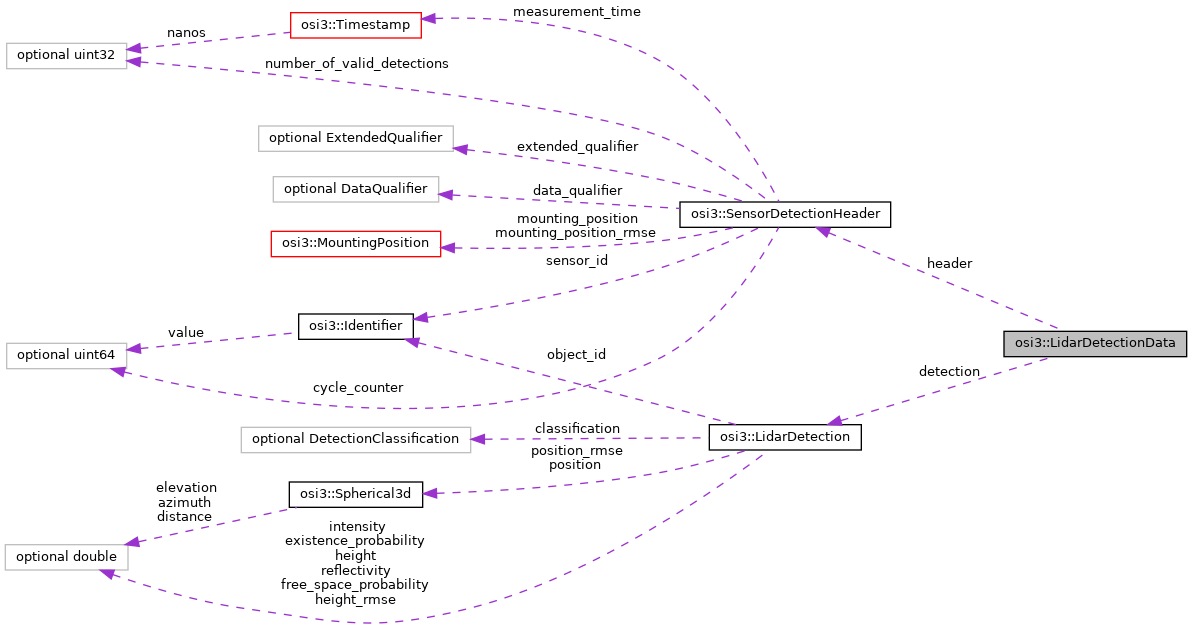
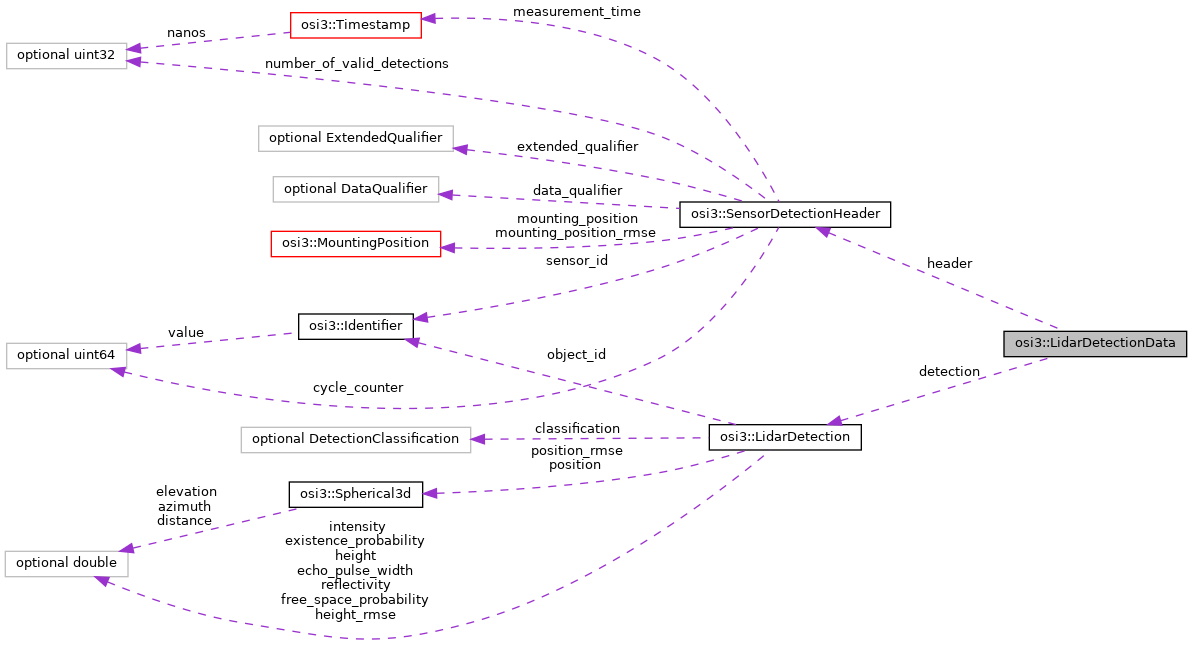
deploy: 3590ea0f7cb383ba6453584e4cb2058d85724f1e

diff --git a/structosi3_1_1LidarDetection-members.html b/structosi3_1_1LidarDetection-members.html
@@ -94,15 +94,16 @@ $(document).ready(function(){initNavTree('structosi3_1_1LidarDetection.html','')
 <p>This is the complete list of members for <a class="el" href="structosi3_1_1LidarDetection.html">osi3::LidarDetection</a>, including all inherited members.</p>
 <table class="directory">
   <tr class="even"><td class="entry"><a class="el" href="structosi3_1_1LidarDetection.html#a44833637161c94126c8ba84bf47b377a">classification</a></td><td class="entry"><a class="el" href="structosi3_1_1LidarDetection.html">osi3::LidarDetection</a></td><td class="entry"></td></tr>
-  <tr><td class="entry"><a class="el" href="structosi3_1_1LidarDetection.html#aa43288d7437026989c17abbc466d29d2">existence_probability</a></td><td class="entry"><a class="el" href="structosi3_1_1LidarDetection.html">osi3::LidarDetection</a></td><td class="entry"></td></tr>
-  <tr class="even"><td class="entry"><a class="el" href="structosi3_1_1LidarDetection.html#a211052d77b3fd978c00659d3d1b98a06">free_space_probability</a></td><td class="entry"><a class="el" href="structosi3_1_1LidarDetection.html">osi3::LidarDetection</a></td><td class="entry"></td></tr>
-  <tr><td class="entry"><a class="el" href="structosi3_1_1LidarDetection.html#a3307991b913cb5b5451257e49f5234d9">height</a></td><td class="entry"><a class="el" href="structosi3_1_1LidarDetection.html">osi3::LidarDetection</a></td><td class="entry"></td></tr>
-  <tr class="even"><td class="entry"><a class="el" href="structosi3_1_1LidarDetection.html#a6799498adedc0b59775d547106557029">height_rmse</a></td><td class="entry"><a class="el" href="structosi3_1_1LidarDetection.html">osi3::LidarDetection</a></td><td class="entry"></td></tr>
-  <tr><td class="entry"><a class="el" href="structosi3_1_1LidarDetection.html#a1c2ea1eb70a1d1c31d5bc1481572f4e7">intensity</a></td><td class="entry"><a class="el" href="structosi3_1_1LidarDetection.html">osi3::LidarDetection</a></td><td class="entry"></td></tr>
-  <tr class="even"><td class="entry"><a class="el" href="structosi3_1_1LidarDetection.html#a744d7f8e6e5be6c25dce2f4bb3d2755c">object_id</a></td><td class="entry"><a class="el" href="structosi3_1_1LidarDetection.html">osi3::LidarDetection</a></td><td class="entry"></td></tr>
-  <tr><td class="entry"><a class="el" href="structosi3_1_1LidarDetection.html#ae732995aaab1ef629a09896f1ab04317">position</a></td><td class="entry"><a class="el" href="structosi3_1_1LidarDetection.html">osi3::LidarDetection</a></td><td class="entry"></td></tr>
-  <tr class="even"><td class="entry"><a class="el" href="structosi3_1_1LidarDetection.html#aa648b223b72897239e0120be863a4439">position_rmse</a></td><td class="entry"><a class="el" href="structosi3_1_1LidarDetection.html">osi3::LidarDetection</a></td><td class="entry"></td></tr>
-  <tr><td class="entry"><a class="el" href="structosi3_1_1LidarDetection.html#a20bdc24a0eaadbd9c2fa48f416f30f42">reflectivity</a></td><td class="entry"><a class="el" href="structosi3_1_1LidarDetection.html">osi3::LidarDetection</a></td><td class="entry"></td></tr>
+  <tr><td class="entry"><a class="el" href="structosi3_1_1LidarDetection.html#a5d179981ada5ea4281adda2aa1e6f612">echo_pulse_width</a></td><td class="entry"><a class="el" href="structosi3_1_1LidarDetection.html">osi3::LidarDetection</a></td><td class="entry"></td></tr>
+  <tr class="even"><td class="entry"><a class="el" href="structosi3_1_1LidarDetection.html#aa43288d7437026989c17abbc466d29d2">existence_probability</a></td><td class="entry"><a class="el" href="structosi3_1_1LidarDetection.html">osi3::LidarDetection</a></td><td class="entry"></td></tr>
+  <tr><td class="entry"><a class="el" href="structosi3_1_1LidarDetection.html#a211052d77b3fd978c00659d3d1b98a06">free_space_probability</a></td><td class="entry"><a class="el" href="structosi3_1_1LidarDetection.html">osi3::LidarDetection</a></td><td class="entry"></td></tr>
+  <tr class="even"><td class="entry"><a class="el" href="structosi3_1_1LidarDetection.html#a3307991b913cb5b5451257e49f5234d9">height</a></td><td class="entry"><a class="el" href="structosi3_1_1LidarDetection.html">osi3::LidarDetection</a></td><td class="entry"></td></tr>
+  <tr><td class="entry"><a class="el" href="structosi3_1_1LidarDetection.html#a6799498adedc0b59775d547106557029">height_rmse</a></td><td class="entry"><a class="el" href="structosi3_1_1LidarDetection.html">osi3::LidarDetection</a></td><td class="entry"></td></tr>
+  <tr class="even"><td class="entry"><a class="el" href="structosi3_1_1LidarDetection.html#a1c2ea1eb70a1d1c31d5bc1481572f4e7">intensity</a></td><td class="entry"><a class="el" href="structosi3_1_1LidarDetection.html">osi3::LidarDetection</a></td><td class="entry"></td></tr>
+  <tr><td class="entry"><a class="el" href="structosi3_1_1LidarDetection.html#a744d7f8e6e5be6c25dce2f4bb3d2755c">object_id</a></td><td class="entry"><a class="el" href="structosi3_1_1LidarDetection.html">osi3::LidarDetection</a></td><td class="entry"></td></tr>
+  <tr class="even"><td class="entry"><a class="el" href="structosi3_1_1LidarDetection.html#ae732995aaab1ef629a09896f1ab04317">position</a></td><td class="entry"><a class="el" href="structosi3_1_1LidarDetection.html">osi3::LidarDetection</a></td><td class="entry"></td></tr>
+  <tr><td class="entry"><a class="el" href="structosi3_1_1LidarDetection.html#aa648b223b72897239e0120be863a4439">position_rmse</a></td><td class="entry"><a class="el" href="structosi3_1_1LidarDetection.html">osi3::LidarDetection</a></td><td class="entry"></td></tr>
+  <tr class="even"><td class="entry"><a class="el" href="structosi3_1_1LidarDetection.html#a20bdc24a0eaadbd9c2fa48f416f30f42">reflectivity</a></td><td class="entry"><a class="el" href="structosi3_1_1LidarDetection.html">osi3::LidarDetection</a></td><td class="entry"></td></tr>
 </table></div><!-- contents -->
 </div><!-- doc-content -->
 <!-- start footer part -->

diff --git a/structosi3_1_1LidarDetection.html b/structosi3_1_1LidarDetection.html
@@ -101,8 +101,8 @@ Collaboration diagram for osi3::LidarDetection:</div>
 <div class="dyncontent">
 <div class="center"><img src="structosi3_1_1LidarDetection__coll__graph.png" border="0" usemap="#osi3_1_1LidarDetection_coll__map" alt="Collaboration graph"/></div>
 <map name="osi3_1_1LidarDetection_coll__map" id="osi3_1_1LidarDetection_coll__map">
-<area shape="rect" id="node2" href="structosi3_1_1Identifier.html" title="A common identifier (ID), represented as an integer. " alt="" coords="8,155,123,181"/>
-<area shape="rect" id="node5" href="structosi3_1_1Spherical3d.html" title="A spherical representation for a point or vector in 3D space. " alt="" coords="597,155,731,181"/>
+<area shape="rect" id="node2" href="structosi3_1_1Identifier.html" title="A common identifier (ID), represented as an integer. " alt="" coords="8,162,123,189"/>
+<area shape="rect" id="node5" href="structosi3_1_1Spherical3d.html" title="A spherical representation for a point or vector in 3D space. " alt="" coords="597,162,731,189"/>
 </map>
 <center><span class="legend">[<a target="top" href="graph_legend.html">legend</a>]</span></center></div>
 <table class="memberdecls">
@@ -128,6 +128,8 @@ Public Attributes</h2></td></tr>
 <tr class="separator:a44833637161c94126c8ba84bf47b377a"><td class="memSeparator" colspan="2">&#160;</td></tr>
 <tr class="memitem:a20bdc24a0eaadbd9c2fa48f416f30f42"><td class="memItemLeft" align="right" valign="top">optional double&#160;</td><td class="memItemRight" valign="bottom"><a class="el" href="structosi3_1_1LidarDetection.html#a20bdc24a0eaadbd9c2fa48f416f30f42">reflectivity</a> = 10</td></tr>
 <tr class="separator:a20bdc24a0eaadbd9c2fa48f416f30f42"><td class="memSeparator" colspan="2">&#160;</td></tr>
+<tr class="memitem:a5d179981ada5ea4281adda2aa1e6f612"><td class="memItemLeft" align="right" valign="top">optional double&#160;</td><td class="memItemRight" valign="bottom"><a class="el" href="structosi3_1_1LidarDetection.html#a5d179981ada5ea4281adda2aa1e6f612">echo_pulse_width</a> = 11</td></tr>
+<tr class="separator:a5d179981ada5ea4281adda2aa1e6f612"><td class="memSeparator" colspan="2">&#160;</td></tr>
 </table>
 <a name="details" id="details"></a><h2 class="groupheader">Detailed Description</h2>
 <div class="textblock"><p>A point or vertical line in a lidar point cloud. </p>
@@ -144,6 +146,28 @@ Public Attributes</h2></td></tr>
       </table>
 </div><div class="memdoc">
 <p>Basic classification of the detection. </p>
+
+</div>
+</div>
+<a id="a5d179981ada5ea4281adda2aa1e6f612"></a>
+<h2 class="memtitle"><span class="permalink"><a href="#a5d179981ada5ea4281adda2aa1e6f612">&#9670;&nbsp;</a></span>echo_pulse_width</h2>
+
+<div class="memitem">
+<div class="memproto">
+      <table class="memname">
+        <tr>
+          <td class="memname">optional double osi3::LidarDetection::echo_pulse_width = 11</td>
+        </tr>
+      </table>
+</div><div class="memdoc">
+<p>Echo pulse width of the detection's echo. Several sensors output an echo pulse width instead of an intensity for each individual detection. The echo pulse is measured in m and measures the extent of the object parts or atmospheric particles that produce the echo. </p><dl class="section note"><dt>Note</dt><dd>For more details see [1] Fig. 7 and 8. </dd>
+<dd>
+Fig. 7 shows an example where the two echos are reflected from the edges A-B and C-D. </dd>
+<dd>
+Fig. 8 shows how the echo pulse width is measured as the range between the rising edge and the falling edge that crosses the intensity threshold.</dd></dl>
+<p>Unit: m</p>
+<p>is_greater_than_or_equal_to: 0 </p>
+<dl class="section user"><dt>Reference:</dt><dd>[1] Rosenberger, P., Holder, M.F., Cianciaruso, N. et al. (2020). <em>Sequential lidar sensor system simulation: a modular approach for simulation-based safety validation of automated driving</em> Automot. Engine Technol. 5, Fig 7, Fig 8. Retrieved May 10, 2021, from <a href="https://doi.org/10.1007/s41104-020-00066-x">https://doi.org/10.1007/s41104-020-00066-x</a> </dd></dl>
 
 </div>
 </div>

diff --git a/navtreeindex2.js b/navtreeindex2.js
@@ -68,16 +68,17 @@ var NAVTREEINDEX2 =
 "structosi3_1_1Lane_1_1Classification_1_1RoadCondition.html#ad2e6b6212fe5bd056e69ec6ed13029eb":[2,0,0,37,0,1,2],
 "structosi3_1_1Lane_1_1Classification_1_1RoadCondition.html#af18fb9af81d3bd6a9860711dc8eac210":[2,0,0,37,0,1,0],
 "structosi3_1_1LidarDetection.html":[2,0,0,39],
-"structosi3_1_1LidarDetection.html#a1c2ea1eb70a1d1c31d5bc1481572f4e7":[2,0,0,39,5],
-"structosi3_1_1LidarDetection.html#a20bdc24a0eaadbd9c2fa48f416f30f42":[2,0,0,39,9],
-"structosi3_1_1LidarDetection.html#a211052d77b3fd978c00659d3d1b98a06":[2,0,0,39,2],
-"structosi3_1_1LidarDetection.html#a3307991b913cb5b5451257e49f5234d9":[2,0,0,39,3],
+"structosi3_1_1LidarDetection.html#a1c2ea1eb70a1d1c31d5bc1481572f4e7":[2,0,0,39,6],
+"structosi3_1_1LidarDetection.html#a20bdc24a0eaadbd9c2fa48f416f30f42":[2,0,0,39,10],
+"structosi3_1_1LidarDetection.html#a211052d77b3fd978c00659d3d1b98a06":[2,0,0,39,3],
+"structosi3_1_1LidarDetection.html#a3307991b913cb5b5451257e49f5234d9":[2,0,0,39,4],
 "structosi3_1_1LidarDetection.html#a44833637161c94126c8ba84bf47b377a":[2,0,0,39,0],
-"structosi3_1_1LidarDetection.html#a6799498adedc0b59775d547106557029":[2,0,0,39,4],
-"structosi3_1_1LidarDetection.html#a744d7f8e6e5be6c25dce2f4bb3d2755c":[2,0,0,39,6],
-"structosi3_1_1LidarDetection.html#aa43288d7437026989c17abbc466d29d2":[2,0,0,39,1],
-"structosi3_1_1LidarDetection.html#aa648b223b72897239e0120be863a4439":[2,0,0,39,8],
-"structosi3_1_1LidarDetection.html#ae732995aaab1ef629a09896f1ab04317":[2,0,0,39,7],
+"structosi3_1_1LidarDetection.html#a5d179981ada5ea4281adda2aa1e6f612":[2,0,0,39,1],
+"structosi3_1_1LidarDetection.html#a6799498adedc0b59775d547106557029":[2,0,0,39,5],
+"structosi3_1_1LidarDetection.html#a744d7f8e6e5be6c25dce2f4bb3d2755c":[2,0,0,39,7],
+"structosi3_1_1LidarDetection.html#aa43288d7437026989c17abbc466d29d2":[2,0,0,39,2],
+"structosi3_1_1LidarDetection.html#aa648b223b72897239e0120be863a4439":[2,0,0,39,9],
+"structosi3_1_1LidarDetection.html#ae732995aaab1ef629a09896f1ab04317":[2,0,0,39,8],
 "structosi3_1_1LidarDetectionData.html":[2,0,0,40],
 "structosi3_1_1LidarDetectionData.html#a759a1669b3f4ce43c099055e08029fbf":[2,0,0,40,1],
 "structosi3_1_1LidarDetectionData.html#acd72cf3ea8e50ed566e075834b678a5a":[2,0,0,40,0],
@@ -248,6 +249,5 @@ var NAVTREEINDEX2 =
 "structosi3_1_1Occupant_1_1Classification.html#a98092d4ddd2b683e109bd7692b5e4ecaacbae42e9034a8f4181193cc9decf825d":[2,0,0,49,0,1,5],
 "structosi3_1_1Occupant_1_1Classification.html#a98092d4ddd2b683e109bd7692b5e4ecaafd105c3e974e9f2dc12026289049fc99":[2,0,0,49,0,1,3],
 "structosi3_1_1Occupant_1_1Classification.html#abac264f20a3e5379b4b2969881af56a6":[2,0,0,49,0,0],
-"structosi3_1_1Occupant_1_1Classification.html#abac264f20a3e5379b4b2969881af56a6a00f308af4fe18c8054d81c872c17031a":[2,0,0,49,0,0,2],
-"structosi3_1_1Occupant_1_1Classification.html#abac264f20a3e5379b4b2969881af56a6a1448fb1f791c8bb2d8da78919de415e4":[2,0,0,49,0,0,10]
+"structosi3_1_1Occupant_1_1Classification.html#abac264f20a3e5379b4b2969881af56a6a00f308af4fe18c8054d81c872c17031a":[2,0,0,49,0,0,2]
 };

diff --git a/navtreeindex5.js b/navtreeindex5.js
@@ -1,5 +1,6 @@
 var NAVTREEINDEX5 =
 {
+"structosi3_1_1TrafficSign_1_1MainSign_1_1Classification.html#af4bea9cfaada82922c78d06dff73b88da25f3e3d9e8b23c14afeb32954349c806":[2,0,0,71,0,0,1,177],
 "structosi3_1_1TrafficSign_1_1MainSign_1_1Classification.html#af4bea9cfaada82922c78d06dff73b88da276de3a609b215107cf55fe012dd53ef":[2,0,0,71,0,0,1,0],
 "structosi3_1_1TrafficSign_1_1MainSign_1_1Classification.html#af4bea9cfaada82922c78d06dff73b88da27a013cb67b750f80a5941c7ef30cec0":[2,0,0,71,0,0,1,167],
 "structosi3_1_1TrafficSign_1_1MainSign_1_1Classification.html#af4bea9cfaada82922c78d06dff73b88da30a941e8237d90da1094255ab27d9f1d":[2,0,0,71,0,0,1,122],
@@ -248,6 +249,5 @@ var NAVTREEINDEX5 =
 "structosi3_1_1TrafficSign_1_1SupplementarySign_1_1Classification.html#a302f53418063f833bdf486599b2d1686a8f8de523840ce21d740959915016c51a":[2,0,0,71,1,0,1,30],
 "structosi3_1_1TrafficSign_1_1SupplementarySign_1_1Classification.html#a302f53418063f833bdf486599b2d1686a93b5ec443c7d3e6caed39c5baf0dbe92":[2,0,0,71,1,0,1,29],
 "structosi3_1_1TrafficSign_1_1SupplementarySign_1_1Classification.html#a302f53418063f833bdf486599b2d1686a96f5db67aa0f7dbd0a63b8bea4cad69c":[2,0,0,71,1,0,1,1],
-"structosi3_1_1TrafficSign_1_1SupplementarySign_1_1Classification.html#a302f53418063f833bdf486599b2d1686a988ceb2ec99ffb493547f070290ffb7a":[2,0,0,71,1,0,1,40],
-"structosi3_1_1TrafficSign_1_1SupplementarySign_1_1Classification.html#a302f53418063f833bdf486599b2d1686a9da0abccc40373e27a7304030aaaf7c6":[2,0,0,71,1,0,1,16]
+"structosi3_1_1TrafficSign_1_1SupplementarySign_1_1Classification.html#a302f53418063f833bdf486599b2d1686a988ceb2ec99ffb493547f070290ffb7a":[2,0,0,71,1,0,1,40]
 };

diff --git a/navtreeindex4.js b/navtreeindex4.js
@@ -1,5 +1,6 @@
 var NAVTREEINDEX4 =
 {
+"structosi3_1_1StationaryObject_1_1Classification.html#ad497488a7119617633b54181ea08457da6158b24f924dbecf2a1bfd46b2b7df04":[2,0,0,66,0,4,1],
 "structosi3_1_1StationaryObject_1_1Classification.html#ad497488a7119617633b54181ea08457da61844e11acb3ff57ce7635709d59fb1b":[2,0,0,66,0,4,16],
 "structosi3_1_1StationaryObject_1_1Classification.html#ad497488a7119617633b54181ea08457da6bdaba100e01c55375fce090386bd1a6":[2,0,0,66,0,4,10],
 "structosi3_1_1StationaryObject_1_1Classification.html#ad497488a7119617633b54181ea08457da7e3b5e517279cca2683c659eb7d2543a":[2,0,0,66,0,4,14],
@@ -248,6 +249,5 @@ var NAVTREEINDEX4 =
 "structosi3_1_1TrafficSign_1_1MainSign_1_1Classification.html#af4bea9cfaada82922c78d06dff73b88da208ea1aa157a57b701a0ccdae601cec8":[2,0,0,71,0,0,1,81],
 "structosi3_1_1TrafficSign_1_1MainSign_1_1Classification.html#af4bea9cfaada82922c78d06dff73b88da2228c6f2773d394fa3a60f4d491ba8a8":[2,0,0,71,0,0,1,43],
 "structosi3_1_1TrafficSign_1_1MainSign_1_1Classification.html#af4bea9cfaada82922c78d06dff73b88da22c3fc4ac4dc03eaf4f214aa3bd157df":[2,0,0,71,0,0,1,74],
-"structosi3_1_1TrafficSign_1_1MainSign_1_1Classification.html#af4bea9cfaada82922c78d06dff73b88da23734ce5e3efa9fee2cfa830245ed021":[2,0,0,71,0,0,1,68],
-"structosi3_1_1TrafficSign_1_1MainSign_1_1Classification.html#af4bea9cfaada82922c78d06dff73b88da25f3e3d9e8b23c14afeb32954349c806":[2,0,0,71,0,0,1,177]
+"structosi3_1_1TrafficSign_1_1MainSign_1_1Classification.html#af4bea9cfaada82922c78d06dff73b88da23734ce5e3efa9fee2cfa830245ed021":[2,0,0,71,0,0,1,68]
 };

diff --git a/navtreeindex3.js b/navtreeindex3.js
@@ -1,5 +1,6 @@
 var NAVTREEINDEX3 =
 {
+"structosi3_1_1Occupant_1_1Classification.html#abac264f20a3e5379b4b2969881af56a6a1448fb1f791c8bb2d8da78919de415e4":[2,0,0,49,0,0,10],
 "structosi3_1_1Occupant_1_1Classification.html#abac264f20a3e5379b4b2969881af56a6a180b96846f3f08de04f0005d5e35899f":[2,0,0,49,0,0,5],
 "structosi3_1_1Occupant_1_1Classification.html#abac264f20a3e5379b4b2969881af56a6a59820d9ac7d3487ff4ed61fb64be3c57":[2,0,0,49,0,0,8],
 "structosi3_1_1Occupant_1_1Classification.html#abac264f20a3e5379b4b2969881af56a6a7bfaa10ee0ab6678d489674cec1559c8":[2,0,0,49,0,0,1],
@@ -248,6 +249,5 @@ var NAVTREEINDEX3 =
 "structosi3_1_1StationaryObject_1_1Classification.html#ad497488a7119617633b54181ea08457da224542cd5d9d94ba440ada2f249159dd":[2,0,0,66,0,4,0],
 "structosi3_1_1StationaryObject_1_1Classification.html#ad497488a7119617633b54181ea08457da2ad7dab15df9369f54e873a079d26f02":[2,0,0,66,0,4,18],
 "structosi3_1_1StationaryObject_1_1Classification.html#ad497488a7119617633b54181ea08457da3061d9cf215369f5d91dad750d08e05d":[2,0,0,66,0,4,2],
-"structosi3_1_1StationaryObject_1_1Classification.html#ad497488a7119617633b54181ea08457da50031e171de36e8236e7b500069e5994":[2,0,0,66,0,4,3],
-"structosi3_1_1StationaryObject_1_1Classification.html#ad497488a7119617633b54181ea08457da6158b24f924dbecf2a1bfd46b2b7df04":[2,0,0,66,0,4,1]
+"structosi3_1_1StationaryObject_1_1Classification.html#ad497488a7119617633b54181ea08457da50031e171de36e8236e7b500069e5994":[2,0,0,66,0,4,3]
 };

diff --git a/navtreedata.js b/navtreedata.js
@@ -22,10 +22,10 @@ var NAVTREEINDEX =
 ".html",
 "structosi3_1_1DetectedItemHeader.html#a3da007473f8976d9ae650a9b8a835078af1c7aa4e3a4fc4a5865e632eb7e33ed7",
 "structosi3_1_1LaneBoundary_1_1Classification.html#a7b617964f20b0d2a7e60474cacf6e214abc97b8bac29e43fa3f7c6248f1b9f33b",
-"structosi3_1_1Occupant_1_1Classification.html#abac264f20a3e5379b4b2969881af56a6a180b96846f3f08de04f0005d5e35899f",
-"structosi3_1_1StationaryObject_1_1Classification.html#ad497488a7119617633b54181ea08457da61844e11acb3ff57ce7635709d59fb1b",
-"structosi3_1_1TrafficSign_1_1MainSign_1_1Classification.html#af4bea9cfaada82922c78d06dff73b88da276de3a609b215107cf55fe012dd53ef",
-"structosi3_1_1TrafficSign_1_1SupplementarySign_1_1Classification.html#a302f53418063f833bdf486599b2d1686a9de614c0aa430218b4f676fa54a68996"
+"structosi3_1_1Occupant_1_1Classification.html#abac264f20a3e5379b4b2969881af56a6a1448fb1f791c8bb2d8da78919de415e4",
+"structosi3_1_1StationaryObject_1_1Classification.html#ad497488a7119617633b54181ea08457da6158b24f924dbecf2a1bfd46b2b7df04",
+"structosi3_1_1TrafficSign_1_1MainSign_1_1Classification.html#af4bea9cfaada82922c78d06dff73b88da25f3e3d9e8b23c14afeb32954349c806",
+"structosi3_1_1TrafficSign_1_1SupplementarySign_1_1Classification.html#a302f53418063f833bdf486599b2d1686a9da0abccc40373e27a7304030aaaf7c6"
 ];
 
 var SYNCONMSG = 'click to disable panel synchronisation';

diff --git a/navtreeindex6.js b/navtreeindex6.js
@@ -1,5 +1,6 @@
 var NAVTREEINDEX6 =
 {
+"structosi3_1_1TrafficSign_1_1SupplementarySign_1_1Classification.html#a302f53418063f833bdf486599b2d1686a9da0abccc40373e27a7304030aaaf7c6":[2,0,0,71,1,0,1,16],
 "structosi3_1_1TrafficSign_1_1SupplementarySign_1_1Classification.html#a302f53418063f833bdf486599b2d1686a9de614c0aa430218b4f676fa54a68996":[2,0,0,71,1,0,1,24],
 "structosi3_1_1TrafficSign_1_1SupplementarySign_1_1Classification.html#a302f53418063f833bdf486599b2d1686aa9aa4f65ebb1155cf59dd5b8e347ae6b":[2,0,0,71,1,0,1,11],
 "structosi3_1_1TrafficSign_1_1SupplementarySign_1_1Classification.html#a302f53418063f833bdf486599b2d1686ab160f17d0505f615f88f762da45f5152":[2,0,0,71,1,0,1,36],

diff --git a/search/all_4.js b/search/all_4.js
@@ -1,5 +1,6 @@
 var searchData=
 [
+  ['echo_5fpulse_5fwidth',['echo_pulse_width',['../structosi3_1_1LidarDetection.html#a5d179981ada5ea4281adda2aa1e6f612',1,'osi3::LidarDetection']]],
   ['elevation',['elevation',['../structosi3_1_1Spherical3d.html#a440c7dfe0d994e5168de2cafa75ba851',1,'osi3::Spherical3d']]],
   ['ellipsoid_5faxial',['ellipsoid_axial',['../structosi3_1_1UltrasonicIndirectDetection.html#a486263493b3eea64c92cd607c86bc7f4',1,'osi3::UltrasonicIndirectDetection']]],
   ['ellipsoid_5fradial',['ellipsoid_radial',['../structosi3_1_1UltrasonicIndirectDetection.html#ae27488fe133f3e50b4894c7616466989',1,'osi3::UltrasonicIndirectDetection']]],

diff --git a/search/variables_4.js b/search/variables_4.js
@@ -1,5 +1,6 @@
 var searchData=
 [
+  ['echo_5fpulse_5fwidth',['echo_pulse_width',['../structosi3_1_1LidarDetection.html#a5d179981ada5ea4281adda2aa1e6f612',1,'osi3::LidarDetection']]],
   ['elevation',['elevation',['../structosi3_1_1Spherical3d.html#a440c7dfe0d994e5168de2cafa75ba851',1,'osi3::Spherical3d']]],
   ['ellipsoid_5faxial',['ellipsoid_axial',['../structosi3_1_1UltrasonicIndirectDetection.html#a486263493b3eea64c92cd607c86bc7f4',1,'osi3::UltrasonicIndirectDetection']]],
   ['ellipsoid_5fradial',['ellipsoid_radial',['../structosi3_1_1UltrasonicIndirectDetection.html#ae27488fe133f3e50b4894c7616466989',1,'osi3::UltrasonicIndirectDetection']]],

diff --git a/structosi3_1_1LidarDetection.js b/structosi3_1_1LidarDetection.js
@@ -1,6 +1,7 @@
 var structosi3_1_1LidarDetection =
 [
     [ "classification", "structosi3_1_1LidarDetection.html#a44833637161c94126c8ba84bf47b377a", null ],
+    [ "echo_pulse_width", "structosi3_1_1LidarDetection.html#a5d179981ada5ea4281adda2aa1e6f612", null ],
     [ "existence_probability", "structosi3_1_1LidarDetection.html#aa43288d7437026989c17abbc466d29d2", null ],
     [ "free_space_probability", "structosi3_1_1LidarDetection.html#a211052d77b3fd978c00659d3d1b98a06", null ],
     [ "height", "structosi3_1_1LidarDetection.html#a3307991b913cb5b5451257e49f5234d9", null ],

diff --git a/functions_e.html b/functions_e.html
@@ -89,6 +89,9 @@ $(document).ready(function(){initNavTree('functions_e.html','');});
 <div class="textblock">Here is a list of all documented class members with links to the class documentation for each member:</div>
 
 <h3><a id="index_e"></a>- e -</h3><ul>
+<li>echo_pulse_width
+: <a class="el" href="structosi3_1_1LidarDetection.html#a5d179981ada5ea4281adda2aa1e6f612">osi3::LidarDetection</a>
+</li>
 <li>elevation
 : <a class="el" href="structosi3_1_1Spherical3d.html#a440c7dfe0d994e5168de2cafa75ba851">osi3::Spherical3d</a>
 </li>
